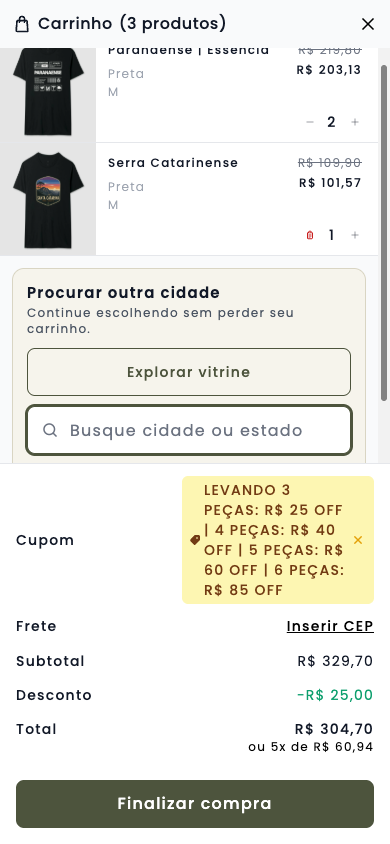
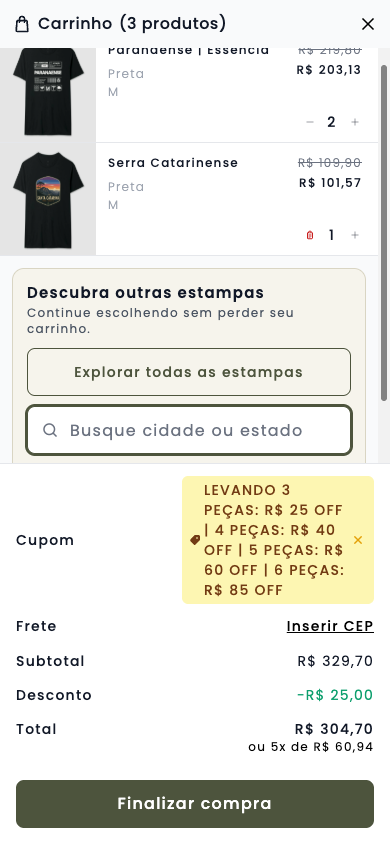
docs(product-discovery): QA, evidence and rollout plan
Extend the real-INK QA to the product block (36/36 locally), add
comparative captures (1280/390/320, closed and search open), verify the
storefront destination exposes non-city categories, and document copy,
events, publication order and rollback.

Changed region(s): [[0.0615, 0.3389, 0.6769, 0.3697], [0.1846, 0.4313, 0.7692, 0.4621]]

diff --git a/docs/product-discovery.md b/docs/product-discovery.md
@@ -1,0 +1,70 @@
+# Descoberta na página de produto + revisão de comunicação (Fase 6)
+
+Data: 2026-09-24. Estado: **implementado, testado em local (Worker+KV locais, páginas REAIS da INK) e commitado; NÃO publicado.** Produção continua no Worker `81ce3c6f-47f4-408f-a4f3-e168dc99d395` (loader 4.1, cinco features, cinco caminhos). Loader novo: **4.2**. Contexto/eventos anteriores: [`expansao-cinco-produtos-analytics.md`](expansao-cinco-produtos-analytics.md).
+
+## 1. Comunicação (todas as superfícies)
+
+A Use Sul não vende só camisetas de cidade: também há expressões, humor e identidade regional. Por isso "cidade" ficou só na **busca**, e a **vitrine** passou a se chamar "todas as estampas". Duas ações distintas em todas as superfícies:
+
+| Ação | Texto | O que faz |
+|---|---|---|
+| Busca | **Buscar cidade ou estado** | usa **exclusivamente** o índice geográfico (`/__origens/search`, o mesmo do storefront). Nunca é apresentada como busca no catálogo; sem resultado: "Não encontramos essa cidade ou estado. Tente o nome completo ou explore todas as estampas." |
+| Vitrine | **Explorar todas as estampas** | link real para `https://useorigens.com.br/sul` (via `cart_ref` e marcador de origem existentes) |
+
+| Superfície | Título | Texto de apoio |
+|---|---|---|
+| **Página do produto** (novo, `product-discovery`) | **Continue explorando** | *De cidades a expressões e outras ideias: descubra mais estampas com a sua cara.* |
+| Drawer do carrinho (compacto) | **Descubra outras estampas** | Continue escolhendo sem perder seu carrinho. |
+| Drawer pós-adição | (eyebrow) Continue explorando · **Descubra outras estampas** | Seu carrinho continua salvo enquanto você explora. |
+
+Antes: "Procurar outra cidade", "Qual é a próxima cidade?", "Explorar vitrine", "Explorar outras camisetas", "← Voltar a procurar". Falha da busca: "A busca não está disponível agora. Você ainda pode explorar todas as estampas." (o link para a vitrine permanece).
+
+**Verificação do destino antes de usar o texto** (`https://useorigens.com.br/sul`, lido em 2026-09-24, 200): a home da vitrine traz **Da Nossa Terra** (identidade regional), **Redesenhos do Sul**, **Feito Para Você**, **Fala daqui** (expressões: Bah, Tchê, Ô piá…), **Escolha o seu estado** e "O número de cada região" — 47 produtos distintos da INK linkados. O destino de fato dá acesso às demais categorias; o teste `qa-expansao.mjs` repete essa checagem a cada execução.
+
+## 2. Componente `product-discovery`
+
+- **Flag nova `product-discovery`** em `WIDGET_FEATURES` (fail-closed: nome desconhecido continua descartando a lista inteira). Com a flag ligada, o bloco **substitui** o link `← Voltar a procurar` (nunca os dois). **Plano B:** se `discovery.js` não carregar, volta um link simples "Explorar todas as estampas" (uma vez, sem laço de tentativas). Sem a flag, o link do piloto fica exatamente como era.
+- **Reuso, sem segunda implementação:** o bloco é um terceiro `kind` (`product`) do mesmo `discovery.js` sob demanda (busca, gateway same-origin sem credenciais, ranking, destinos e CSS dos drawers). Só o lado leve (`src/loader/product-discovery.js`) é novo; a âncora de compra (`findAnchor`) foi movida para o runtime e é compartilhada.
+- **Recolhido por padrão** (título, texto, "Buscar cidade ou estado" e "Explorar todas as estampas"; alvos ≥44 px); busca expandida limitada a **4 resultados**. Nenhuma ação preenchida: o `Adicionar ao Carrinho` nativo (verde-oliva cheio, maior) segue dominante.
+- **Posição:** logo depois do `<form>` nativo de compra (abaixo do CTA, dos selos de troca/segurança e das bandeiras), **fora** do formulário e do `turbo-frame` que a INK recarrega. *Achado do QA:* colocado como irmão do CTA (dentro do frame), no mobile a INK re-renderiza o frame ~0,5–1,6 s depois de carregar/rolar e o bloco era refeito — a busca aberta perdia o foco e recolhia. Fora do `<form>` isso não acontece (teste `the INK re-rendering its turbo-frame … does NOT rebuild the block`). Idempotência por existência do bloco (não por posição: no mobile a âncora "visível" alterna).
+- **Intocado:** HTML/`form`/variantes/CTA/sticky mobile/Stimulus/checkout/preços/sessão da INK; drawers e espelho no storefront (só a comunicação mudou). Cinco caminhos exatos inalterados; nada fora deles.
+- **Carrinho na saída:** os links do bloco herdam a ponte existente — `cart_ref` no clique (último snapshot do espelho; sem cookies/CSRF; sem token → link normal para a vitrine) e o retorno `?origens_open_cart=1` não mudou.
+
+## 3. Eventos (nomes e contrato já existentes)
+
+Nenhuma biblioteca nova. `origens_explore_storefront_click` (INK) e `origens_storefront_arrived` (storefront) reaproveitados; `entry_point` segue o enum `ink_*` que já estava em produção (mantido para não partir a série no GA4):
+
+| Superfície | `entry_point` | Observação |
+|---|---|---|
+| Bloco da página do produto | **`ink_product_detail`** (novo) | proposta do briefing: `product_detail`; usei o prefixo `ink_` por consistência com os valores existentes |
+| Drawer pós-adição | `ink_post_add` | (proposta `post_add_drawer` não adotada: dividiria a série) |
+| Drawer do carrinho | `ink_cart_drawer` | (proposta `cart_drawer` idem) |
+| Plano B (link simples) | `ink_product_return` | mesmo valor do link antigo |
+
+Um evento novo de intenção, INK-side: **`origens_discovery_search_open`** (toque em "Buscar cidade ou estado", `entry_point` = `ink_product_detail` ou `ink_cart_drawer`, uma vez por toque; **nunca** o texto digitado). A seleção de resultado já é o `origens_explore_storefront_click` (o resultado é um link nosso). Sem evento por tecla.
+**Storefront:** `ink_product_detail` entrou no enum fechado de chegada (`feature/product-discovery-entry`, commit `12bca55`, 1 linha + teste + doc). **Ordem de publicação:** storefront **antes** do Worker (senão a chegada vinda desse bloco seria descartada pelo enum antigo). Consentimento, dimensões e redação do `cart_ref`: como em [`analytics-origens-events.md`](../../useorigens-cartmirror/docs/analytics-origens-events.md). Continuam valendo os limites daquele doc (o gate do aviso de cookies da INK; nada aqui foi visto no painel do GA4).
+
+## 4. Testes e QA (local)
+
+| Suíte | Resultado |
+|---|---|
+| Worker `npm test` | **217/217** (baseline 203; +13 do bloco: cinco produtos/cópia/sem link antigo, form intacto, busca abre/fecha e só consulta o gateway geográfico, falha honesta, saída com `cart_ref`+marcador, Turbo 1→1→0→1, re-render do frame não refaz o bloco, plano B, flag OFF = link antigo, flag sozinha sem busca; +1 workerd da flag) |
+| Storefront Vitest do enum | 17/17 (`origens-events`) |
+| **QA em navegador real** `scripts/qa-expansao.mjs` (INK real, Worker+KV locais, tags da INK bloqueadas) | **36/36**: 5 páginas × 1280/390/320×640 com 1 loader 4.2, 6 features, **1 bloco, sem link antigo**, CTA/sticky nativos sem cobertura nossa, sem overflow atribuível ao bloco; busca aberta (gateway real, ≤4 resultados, sem cobrir o CTA); destino `/sul` com as categorias; jornada de 2 produtos, drawers (ícone e "Ver carrinho"), espelho, `?origens_open_cart=1`, 3+ peças com `Finalizar compra` visível em 1280/390/320×640 |
+
+Overflow: em 320 (e 390 na 1ª visita) a **própria página da INK** já transborda na horizontal (`overflowWithout: true` com o bloco oculto); o QA compara com e sem o bloco e nenhum overflow é atribuível a ele.
+Capturas: `docs/evidence/product-discovery/` (`produto-*-{1280,390,320}-fechado.png`, `produto-paranaense-{1280,390,320}-busca-aberta.png`) e os drawers com o texto novo em `docs/evidence/expansao-5/drawer-*`.
+
+## 5. Publicação e rollback (a executar com autorização; nada foi publicado)
+
+Versão estável a preservar no rollback: **`81ce3c6f-47f4-408f-a4f3-e168dc99d395`** (loader 4.1, cinco features, cinco caminhos, `CART_REFS`). Não usar deploy sem `--var` (desliga o piloto).
+
+1. **Storefront:** publicar `feature/product-discovery-entry` (`12bca55`) pelo fluxo normal (PR → Railway).
+2. **Worker, passo A (código novo, flag OFF):** cinco features, cinco caminhos idênticos. Smoke: health `version 4.2`, cinco páginas com 1 loader e o link antigo (sem bloco), cinco produtos externos reais com 200 sem loader. (A comunicação dos drawers já muda neste passo: não está atrás da flag.)
+   ```bash
+   npx wrangler deploy -c wrangler.production.toml --var ENABLE_WIDGET:true \
+     --var "WIDGET_ALLOWLIST:/usesul/product/serra-catarinense,/usesul/product/made-in-rio-grande-do-sul-8834d3a7-4ed3-49a3-8258-d2ba71fa8241,/usesul/product/made-in-santa-catarina-60ba13f6-62cf-4309-9d03-490ab9193829,/usesul/product/paranaense-essencia,/usesul/product/made-in-parana-cda5fe30-bb4e-4e2e-b416-01e3ec45649a" \
+     --var WIDGET_FEATURES:return-link,post-add-discovery,city-search,cart-discovery,cart-mirror
+   ```
+3. **Worker, passo B (liga o bloco):** o mesmo comando com `WIDGET_FEATURES:return-link,post-add-discovery,city-search,cart-discovery,cart-mirror,product-discovery`. Health deve listar as seis; `node scripts/qa-expansao.mjs --live` (36 checagens + ida e volta pelo storefront).
+4. **Rollback:** (a) só o bloco: repetir o passo A (tira `product-discovery`, mantém as outras cinco); (b) tudo: `npx wrangler rollback 81ce3c6f-47f4-408f-a4f3-e168dc99d395 --name use-sul-widget -m "rollback fase-6"` (volta também a comunicação antiga). Confirmar health e smoke depois. Nunca rollback para a versão de um produto só.
